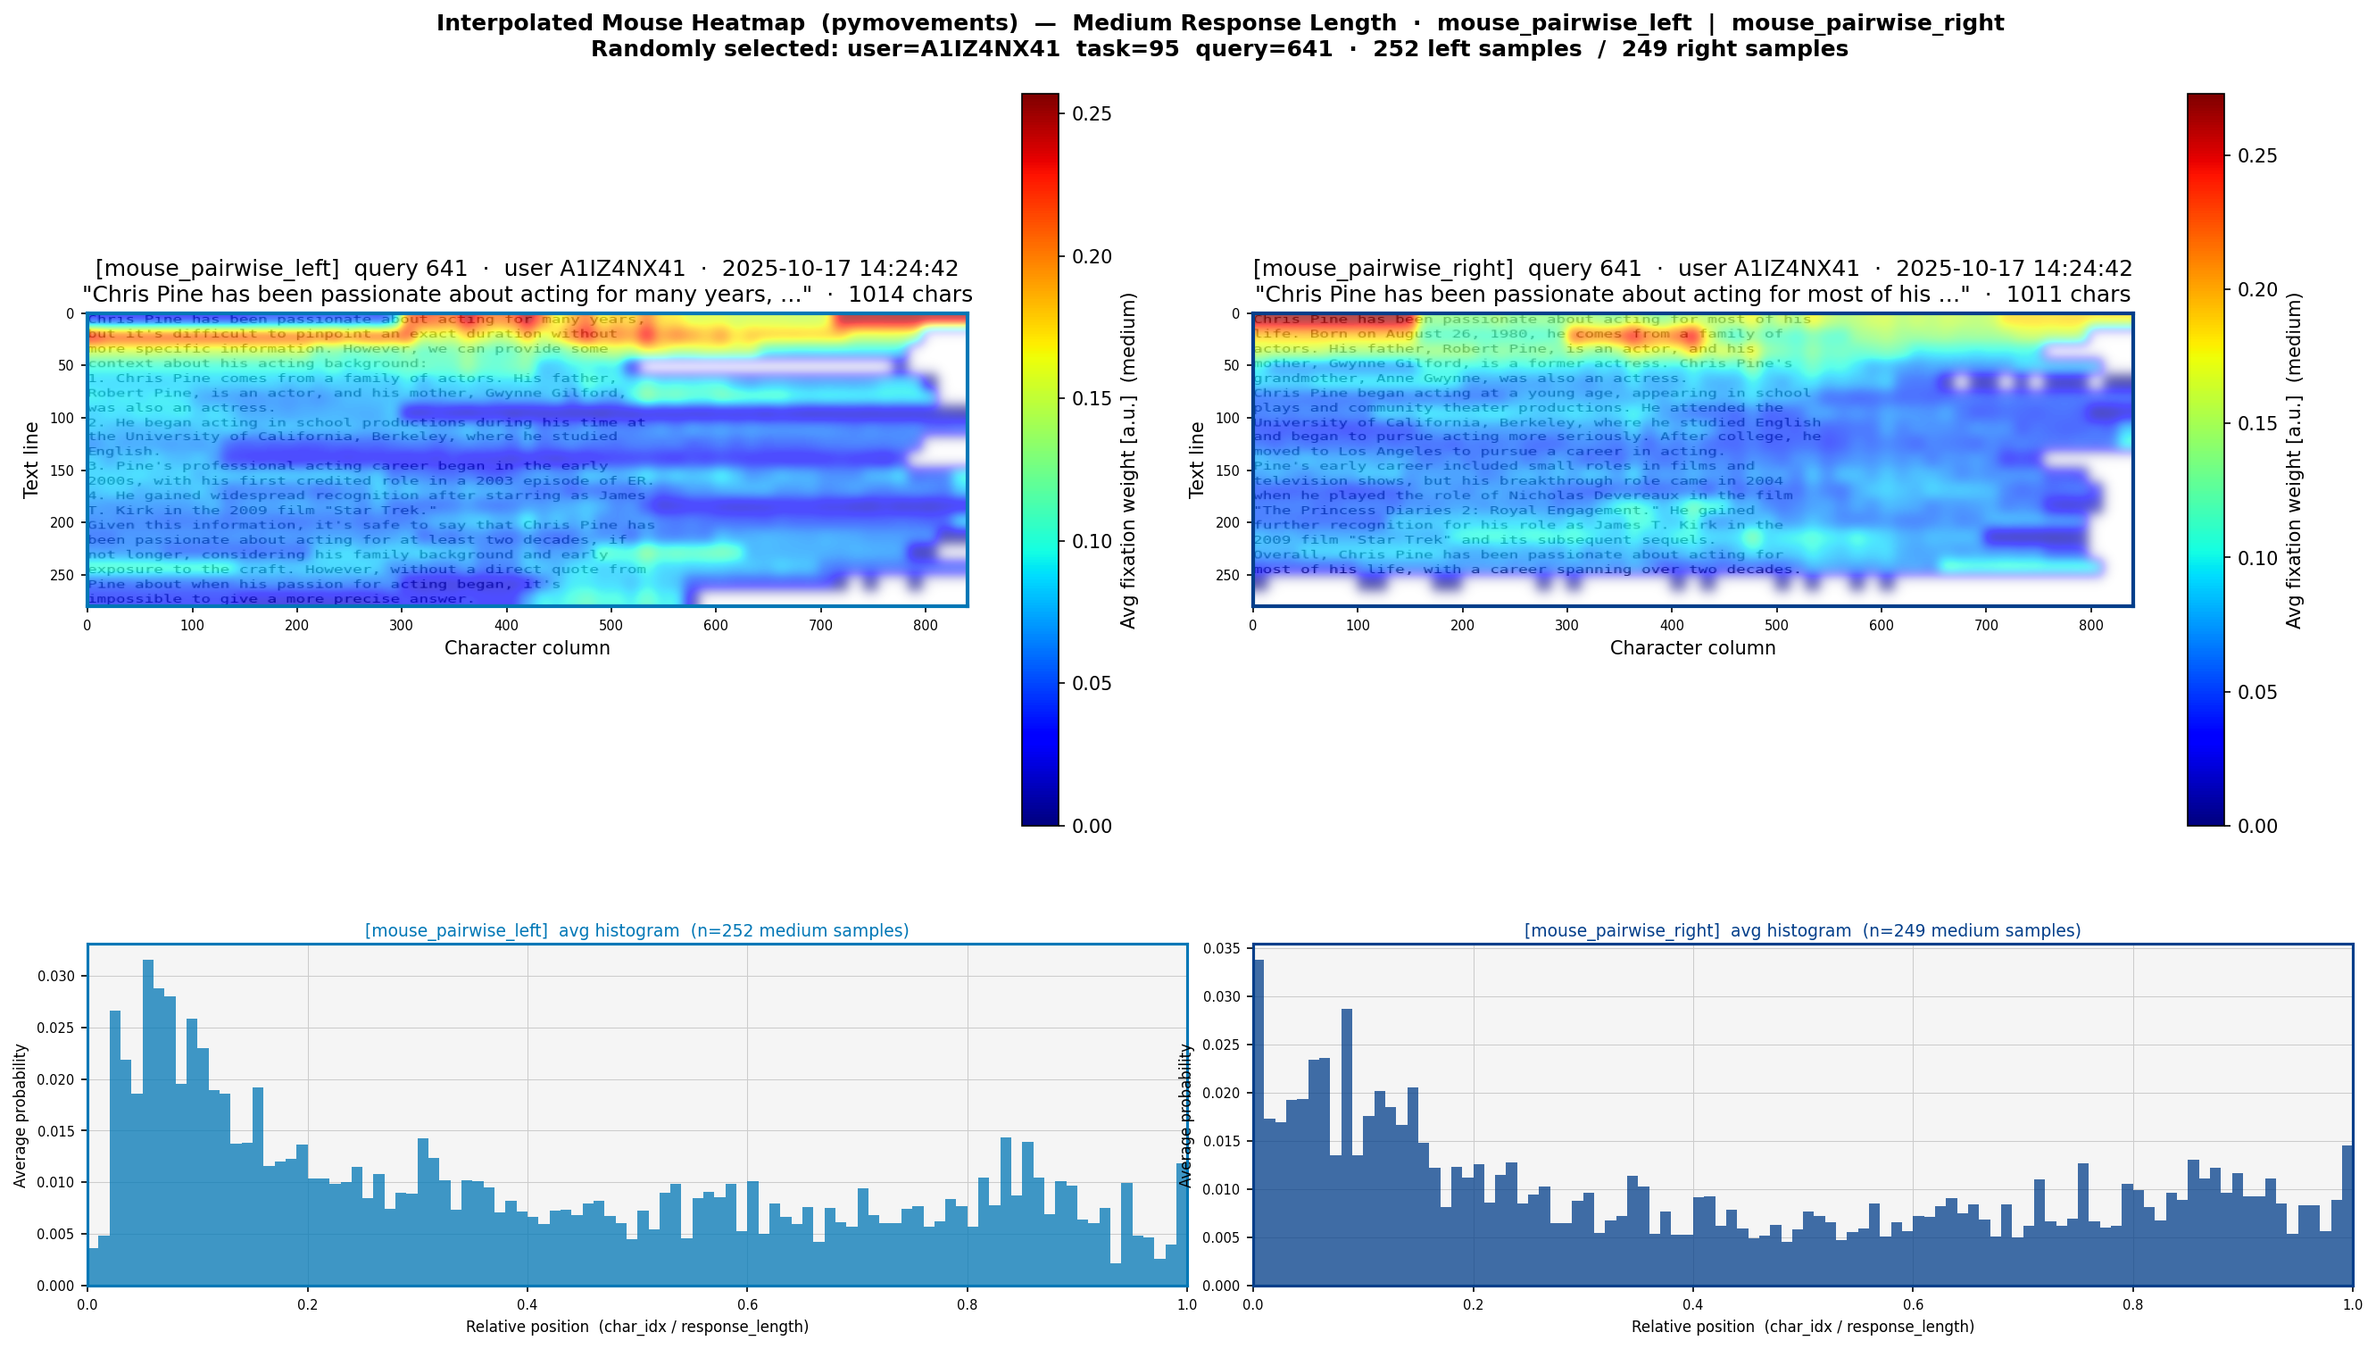
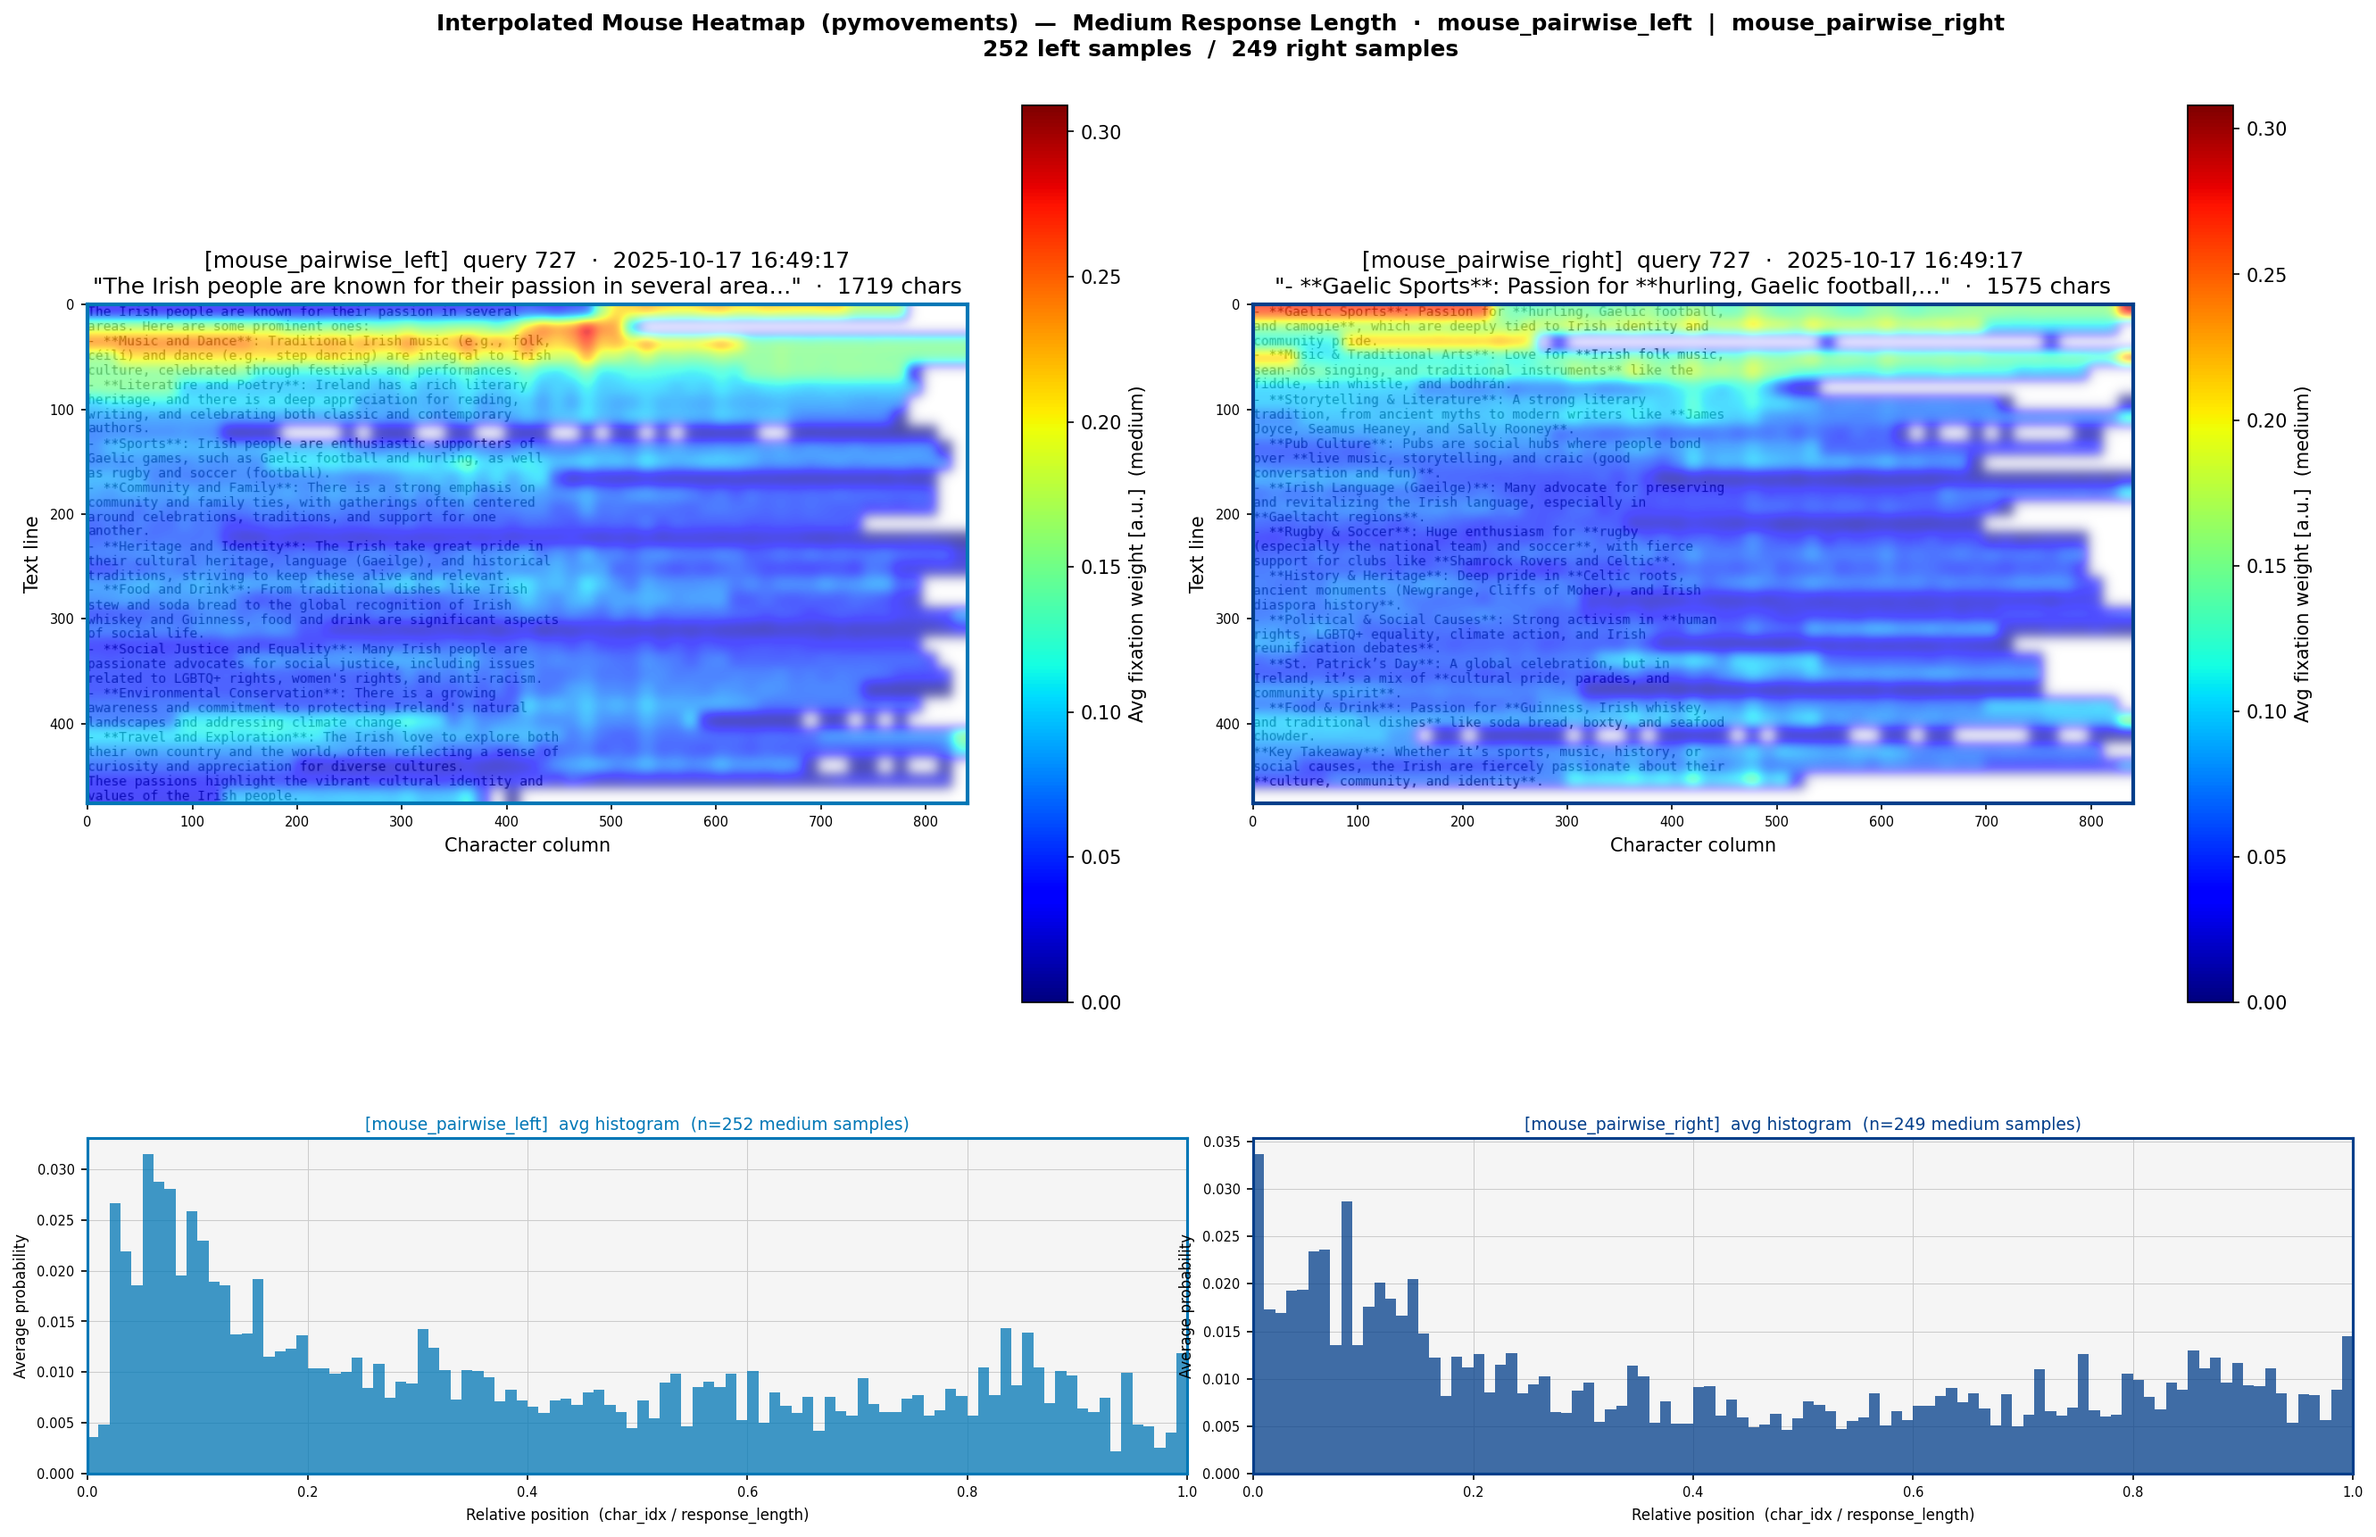
heatmap allignment fix

Changed region(s): [[0.0, 0.0, 0.9666, 0.6532], [0.0, 0.6843, 0.9977, 0.9954]]

diff --git a/src/vis/gaze_pairwise_medium_pm_heatmap.py b/src/vis/gaze_pairwise_medium_pm_heatmap.py
@@ -179,22 +179,25 @@ def build_map(text: str, wrap_width: int = WRAP):
 # ---------------------------------------------------------------------------
 def render_text_background(display_lines: list[str], n_lines: int,
                            filepath: str, dpi: int = 100) -> None:
-    """Save monospace text on dark background to PNG for use as pm stimulus."""
-    # Coordinate space: x in [0, WRAP], y in [0, n_lines] with y=0 at top.
-    # Figure size chosen to give reasonable character proportions.
-    fig_w = WRAP * 0.15          # inches
-    fig_h = n_lines * 0.22       # inches
-    fig, ax = plt.subplots(figsize=(max(fig_w, 4), max(fig_h, 2)), facecolor=BG)
+    """Save monospace text on background to PNG for use as pm stimulus.
+
+    The image is sized to exactly WRAP*CHAR_SCALE × n_lines*CHAR_SCALE pixels
+    so that it maps 1-to-1 onto the pymovements pixel coordinate space and
+    text characters align with their heatmap positions.
+    """
+    fig_w = WRAP * CHAR_SCALE / dpi        # exact pixel match in x
+    fig_h = n_lines * CHAR_SCALE / dpi     # exact pixel match in y
+    fig, ax = plt.subplots(figsize=(fig_w, fig_h), facecolor=BG)
     ax.set_facecolor(BG)
     ax.set_xlim(0, WRAP)
     ax.set_ylim(n_lines, 0)   # y=0 at top, y=n_lines at bottom
     ax.axis('off')
+    fig.subplots_adjust(left=0, right=1, top=1, bottom=0)   # no margins
     fp = FontProperties(size=FONT_SIZE, family='monospace')
     for ln, line in enumerate(display_lines):
         ax.text(0, ln + 0.5, line, fontproperties=fp,
                 color=TXTCLR, va='center', ha='left', clip_on=True)
-    fig.savefig(filepath, dpi=dpi, bbox_inches='tight', pad_inches=0,
-                facecolor=BG)
+    fig.savefig(filepath, dpi=dpi, facecolor=BG)
     plt.close(fig)
 
 
@@ -302,7 +305,6 @@ fig = plt.figure(figsize=(18, fig_h), facecolor=BG)
 fig.suptitle(
     f'Interpolated {MODALITY.capitalize()} Heatmap  (pymovements)  —  {LENGTH_CATEGORY.capitalize()} Response Length  ·  '
     f'{SRC_LEFT}  |  {SRC_RIGHT}\n'
-    f'Randomly selected: user={user_id}  task={task_id}  query={query_id}  ·  '
     f'{len(medium_left)} left samples  /  {len(medium_right)} right samples',
     color='black', fontsize=12, fontweight='bold', y=1.0,
 )
@@ -332,7 +334,7 @@ pm.plotting.heatmap(
     origin='upper',
     show_cbar=True,
     cbar_label=f'Avg fixation weight [a.u.]  ({LENGTH_CATEGORY})',
-    title=(f'[{SRC_LEFT}]  query {query_id}  ·  user {user_id}  ·  {ts}\n'
+    title=(f'[{SRC_LEFT}]  query {query_id}  ·  {ts}\n'
            f'"{short1}…"  ·  {len(text1)} chars'),
     xlabel='Character column',
     ylabel='Text line',
@@ -353,7 +355,7 @@ pm.plotting.heatmap(
     origin='upper',
     show_cbar=True,
     cbar_label=f'Avg fixation weight [a.u.]  ({LENGTH_CATEGORY})',
-    title=(f'[{SRC_RIGHT}]  query {query_id}  ·  user {user_id}  ·  {ts}\n'
+    title=(f'[{SRC_RIGHT}]  query {query_id}  ·  {ts}\n'
            f'"{short2}…"  ·  {len(text2)} chars'),
     xlabel='Character column',
     ylabel='Text line',
